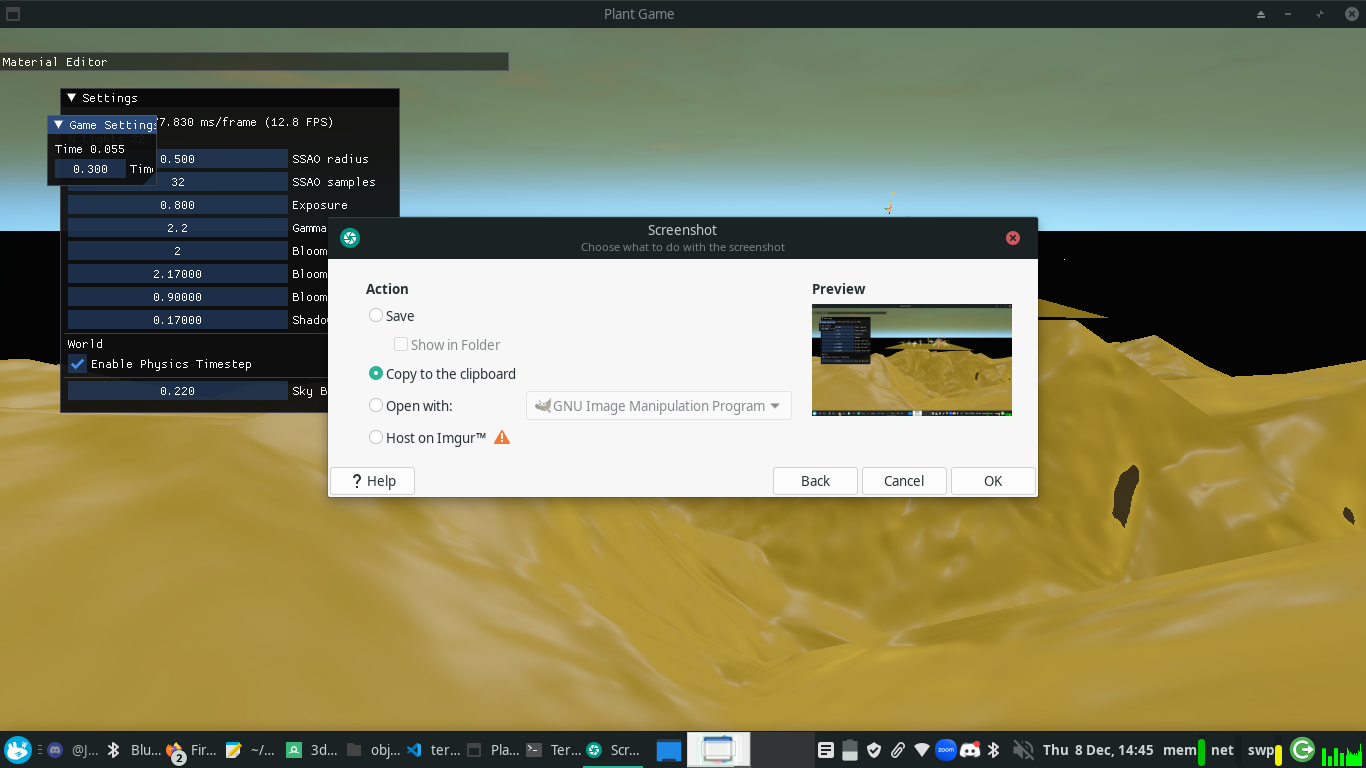
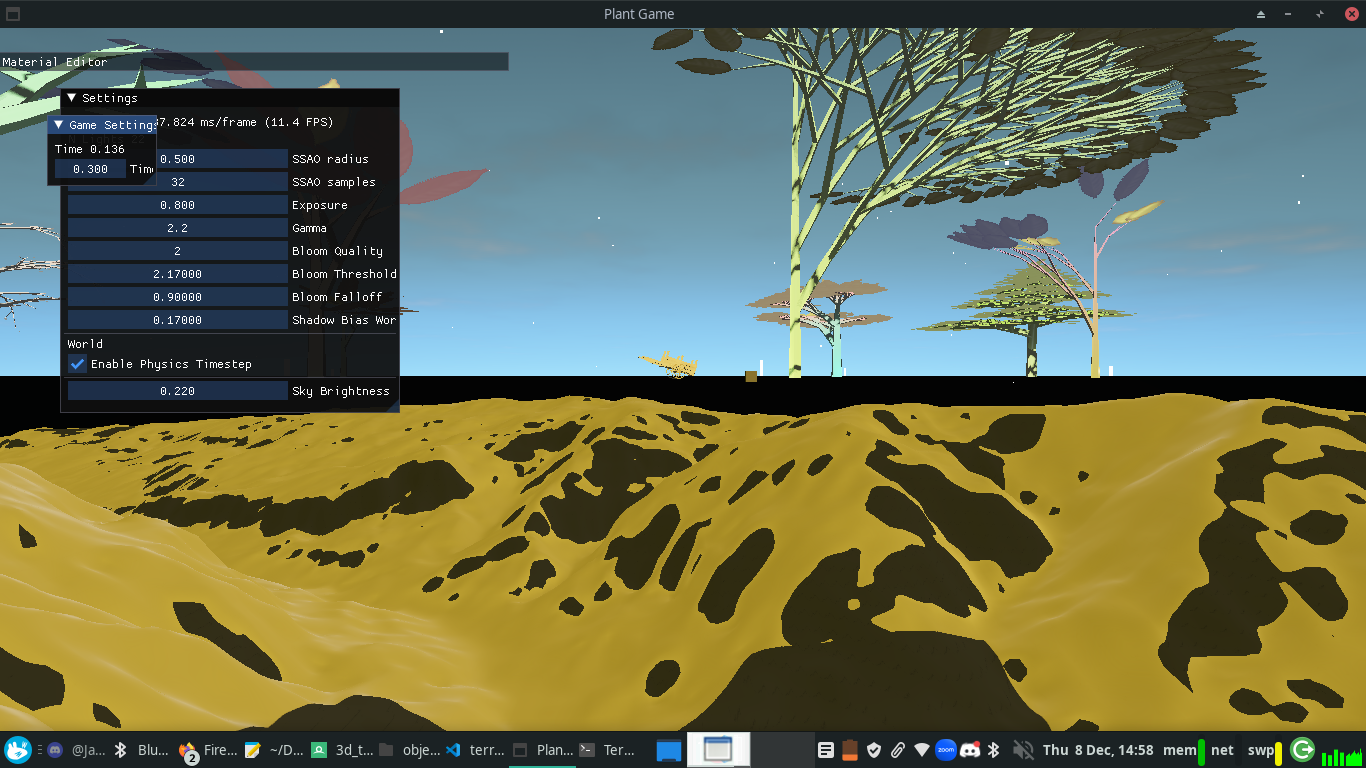
working terrain settings

diff --git a/ev2/include/renderer/camera.h b/ev2/include/renderer/camera.h
@@ -24,25 +24,40 @@ enum class CameraProjection {
     FISHEYE       // conformal (stereographic projection)
 };
 
+/**
+ * @brief Extract projection frustum planes
+ * 
+ * @param comp 
+ * @return Frustum 
+ */
+inline Frustum extract_frustum(const glm::mat4& comp) noexcept {
+    using namespace glm;
+    Frustum f{};
+
+    for (int i = 0; i < 3; i++)
+        for (int j = 0; j < 2; j++) {
+            f.planes[i * 2 + j].p.x = comp[0][3] + (j == 0 ? comp[0][j] : -comp[0][j]);
+            f.planes[i * 2 + j].p.y = comp[1][3] + (j == 0 ? comp[1][j] : -comp[1][j]);
+            f.planes[i * 2 + j].p.z = comp[2][3] + (j == 0 ? comp[2][j] : -comp[2][j]);
+            f.planes[i * 2 + j].p.w = comp[3][3] + (j == 0 ? comp[3][j] : -comp[3][j]);
+            f.planes[i * 2 + j].normalize();
+        }
+
+    return f;
+}
+
 class Camera {
 public:
+    /**
+     * @brief Get the world space frustums of this camera
+     * 
+     * @return Frustum 
+     */
     Frustum extract_frustum() const noexcept {
         using namespace glm;
         if (dirty)
             force_update_internal();
-        const mat4& comp = p_v;
-        Frustum f{};
-
-        for (int i = 0; i < 3; i++)
-            for (int j = 0; j < 2; j++) {
-                f.planes[i * 2 + j].p.x = comp[0][3] + (j == 0 ? comp[0][j] : -comp[0][j]);
-                f.planes[i * 2 + j].p.y = comp[1][3] + (j == 0 ? comp[1][j] : -comp[1][j]);
-                f.planes[i * 2 + j].p.z = comp[2][3] + (j == 0 ? comp[2][j] : -comp[2][j]);
-                f.planes[i * 2 + j].p.w = comp[3][3] + (j == 0 ? comp[3][j] : -comp[3][j]);
-                f.planes[i * 2 + j].normalize();
-            }
-
-        return f;
+        return ev2::extract_frustum(p_v);
     }
     
     /**
@@ -201,7 +216,7 @@ private:
     mutable bool dirty = true;
 
     float fov = 60.0f;
-    float m_near = 0.1f, m_far = 32000.0f;
+    float m_near = 1.f, m_far = 64000.0f;
     float aspect = 1.0f;
 };
 

diff --git a/ev2/src/renderer/terrain.cpp b/ev2/src/renderer/terrain.cpp
@@ -184,19 +184,19 @@ struct TerrainManager {
     uint32_t nodeCount;
     float size;
 } g_terrain = {
-    {true, true, false, false, true},
+    {true, false, false, false, true},
     {std::string("" "./kauai.png"),
-    //  52660.0f, 52660.0f, -400.0f, 1587.0f,
-    5000.0f, 5000.0f, -200.0f, 14.0f,
+     52660.0f, 52660.0f, -1000.0f, 15.0f,
+    // 1000.0f, 1000.0f, -100.0f, 14.0f,
      1.0f},
     METHOD_CS,
     SHADING_DIFFUSE,
     3,
     7.0f,
-    0.1f,
+    0.005f,
     25,
     0,
-    5000.0f
+    52660.0f
 };
 
 ////////////////////////////////////////////////////////////////////////////////
@@ -991,7 +991,7 @@ bool LoadTerrainVariables(const Camera& m_camera)
     glm::vec3 scale = glm::vec3(width, zMax - zMin, height);
     // m_camera.get_view
     glm::mat4 viewInv = m_camera.get_view_inv();
-    glm::mat4 view = glm::inverse(viewInv);
+    glm::mat4 view = m_camera.get_view();
     glm::mat4 model = glm::translate(glm::identity<glm::mat4>(), glm::vec3(-width / 2.0f, zMin, +height / 2.0f))
             * glm::scale(glm::identity<glm::mat4>(), glm::vec3(scale))
             * glm::rotate(glm::identity<glm::mat4>(), -(float)M_PI / 2.0f, glm::vec3(1, 0, 0));
@@ -1006,10 +1006,9 @@ bool LoadTerrainVariables(const Camera& m_camera)
     variables.viewProjection = projection * view;
     //variables.projection = dja::transpose(projection);
 
-    // extract frustum planes
+    // extract frustum planes in model space
     glm::mat4 mvp = variables.modelViewProjection;
-    
-    m_camera.extract_frustum().copy_to_array(variables.frustum);
+    extract_frustum(mvp).copy_to_array(variables.frustum);
 
     // upLoad to GPU
     g_gl->streams[STREAM_TERRAIN_VARIABLES]->copy_data(sizeof(PerFrameVariables), (const void *)&variables);

diff --git a/3d_tree_ex/src/main.cpp b/3d_tree_ex/src/main.cpp
@@ -253,7 +253,7 @@ public:
             static int32_t scroll_last = scroll_pos;
             int32_t scroll_delta = scroll_pos - scroll_last;
             scroll_last = scroll_pos;
-            cam_boom_length = glm::clamp(cam_boom_length - scroll_delta, 0.f, 200.f);
+            cam_boom_length = glm::clamp(cam_boom_length - scroll_delta, 0.1f, 1000.f);
         }
     }
 

diff --git a/ev2/include/visual_nodes.h b/ev2/include/visual_nodes.h
@@ -79,7 +79,7 @@ private:
 
     Camera camera{};
     float fov = 60.0f;
-    float m_near = 0.1f, m_far = 500.0f;
+    float m_near = 1.f, m_far = 64000.0f;
     float aspect = 1.0f;
 };
 
